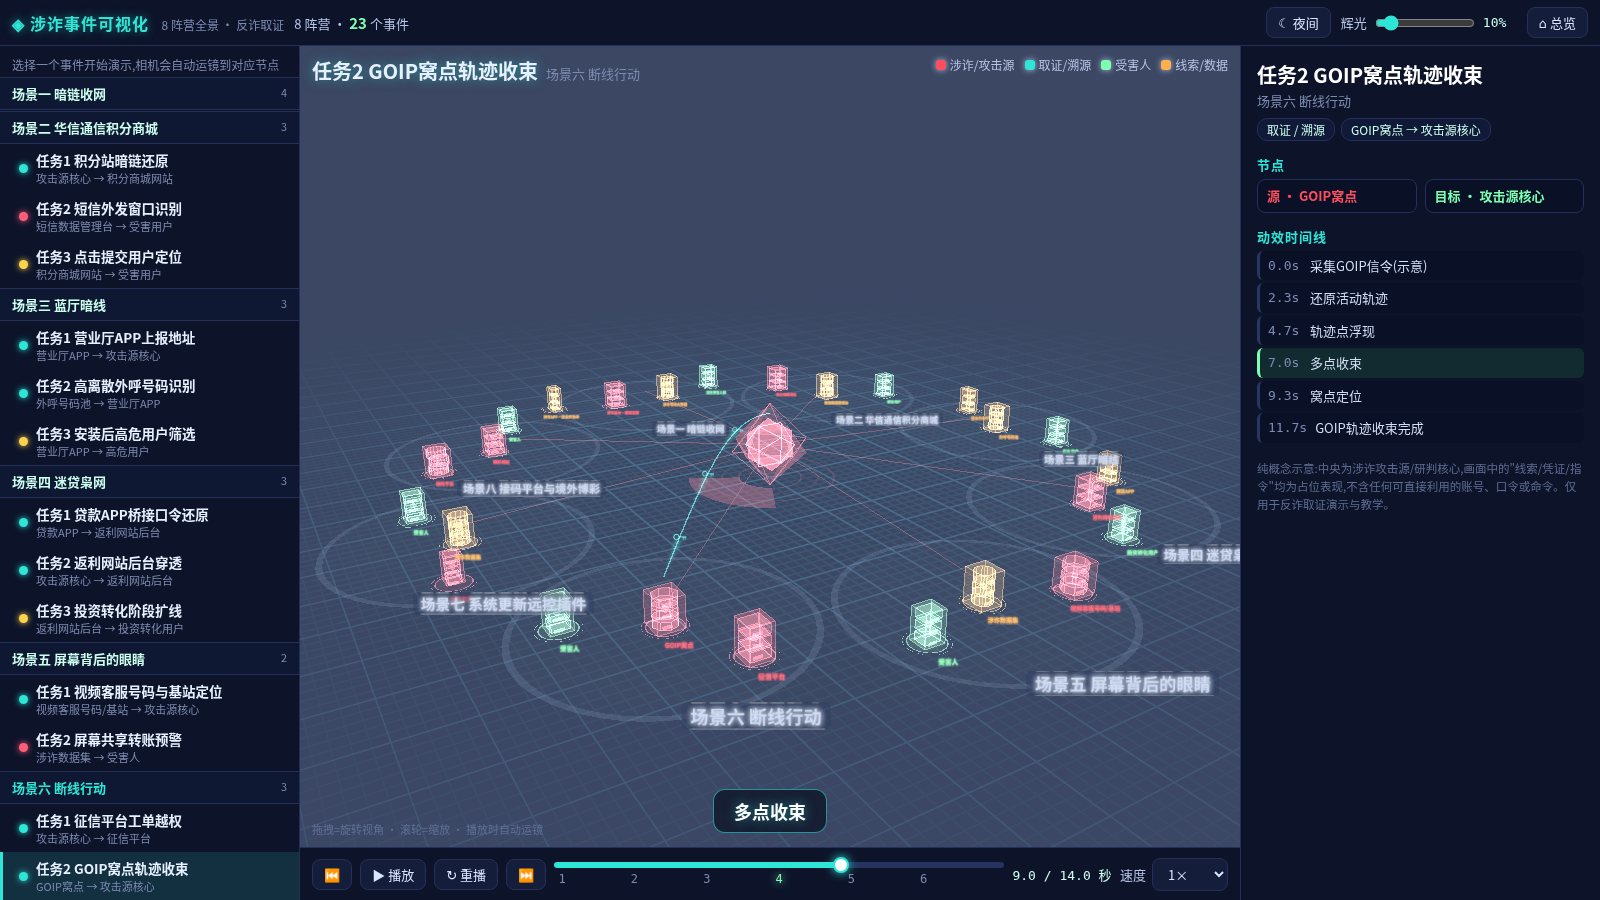
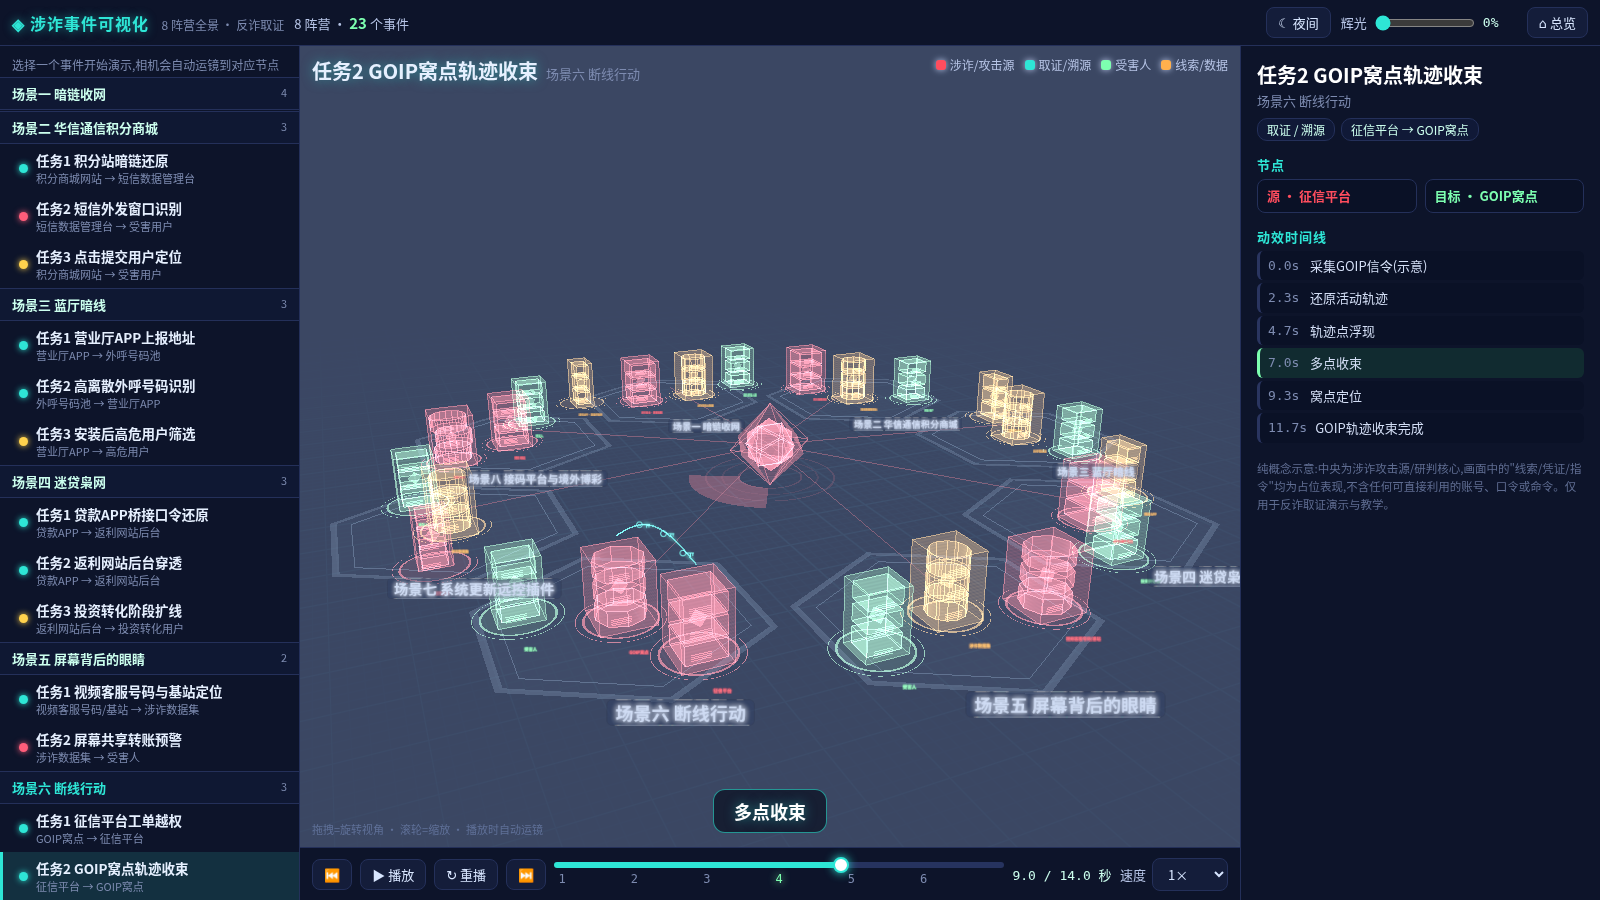
全景重做:节点对齐单场景(放大/发光/双环),事件改为本阵营源→目标直连,去掉所有经core的路由

diff --git a/js/world-data.js b/js/world-data.js
@@ -53,7 +53,7 @@ CAMPS.forEach((camp, ci) => {
     const out = (Math.abs(k - (n - 1) / 2)) * 2.2;          // 两端稍微外扩成弧
     nd.x = p.x + tang.x * off + radial.x * out;
     nd.z = p.z + tang.z * off + radial.z * out;
-    nd.scale = 0.72; nd.camp = camp.id; nd.campName = camp.name;
+    nd.scale = 0.95; nd.camp = camp.id; nd.campName = camp.name;
     NODES.push(nd);
   });
 });
@@ -64,22 +64,22 @@ const EVENTS = [
   // 场景一
   E({ id: 's1t1', camp: 'c1', name: '任务1 提取APP后台凭证', from: 's1_app', to: 's1_back', role: 'extract', dur: 14,
     cap: ['锁定涉诈APP与后台', '静态分析还原后台线索(示意)', '后台地址/账号线索浮现', '沿暗链溯源流向后台', '定位落入涉诈后台', '取证闭环·APP与后台关联'] }),
-  E({ id: 's1t2', camp: 'c1', name: '任务2 进入网站后台并取证', from: 'core', to: 's1_back', role: 'extract', dur: 14,
+  E({ id: 's1t2', camp: 'c1', name: '任务2 进入网站后台并取证', from: 's1_app', to: 's1_back', role: 'extract', dur: 14,
     cap: ['接入涉诈后台边界', '凭线索进入后台(授权取证)', '后台数据结构浮现', '关键运营证据提取', '证据固定与留痕', '后台取证完成'] }),
   E({ id: 's1t3', camp: 'c1', name: '任务3 话单账单交叉定位', from: 's1_data', to: 's1_back', role: 'extract', dur: 14,
     cap: ['调取话单与账单数据', '多源数据对齐', '交叉比对找共性', '可疑号码聚合', '轨迹收敛定位', '交叉定位完成'] }),
   E({ id: 's1t4', camp: 'c1', name: '任务4 潜在受害人闭环圈定', from: 's1_data', to: 's1_vic', role: 'spread', dur: 14,
     cap: ['以后台信息为锚点', '扩线到接触人群', '风险评分筛选', '高风险人群圈定', '闭环比对确认', '潜在受害人圈定完成'] }),
   // 场景二
-  E({ id: 's2t1', camp: 'c2', name: '任务1 积分站暗链还原', from: 'core', to: 's2_site', role: 'extract', dur: 14,
+  E({ id: 's2t1', camp: 'c2', name: '任务1 积分站暗链还原', from: 's2_site', to: 's2_sms', role: 'extract', dur: 14,
     cap: ['锁定积分商城站点', '解析页面隐藏跳转(示意)', '暗链路径还原', '指向后端的链路浮现', '定位真实后端', '暗链还原完成'] }),
   E({ id: 's2t2', camp: 'c2', name: '任务2 短信外发窗口识别', from: 's2_sms', to: 's2_vic', role: 'control', dur: 14,
     cap: ['接入短信数据管理台', '统计外发频次/时段', '异常外发窗口浮现', '锁定高频外发时段', '关联接收用户', '外发窗口识别完成'] }),
   E({ id: 's2t3', camp: 'c2', name: '任务3 点击提交用户定位', from: 's2_site', to: 's2_vic', role: 'spread', dur: 14,
     cap: ['采集提交行为(示意)', '关联用户标识', '定位提交用户', '圈定受影响用户', '风险提示', '用户定位完成'] }),
   // 场景三
-  E({ id: 's3t1', camp: 'c3', name: '任务1 营业厅APP上报地址', from: 's3_app', to: 'core', role: 'extract', dur: 14,
-    cap: ['查获营业厅APP', '还原上报地址(示意)', '上报目标浮现', '指向指挥核心', '定位核心地址', '上报地址取证完成'] }),
+  E({ id: 's3t1', camp: 'c3', name: '任务1 营业厅APP上报地址', from: 's3_app', to: 's3_call', role: 'extract', dur: 14,
+    cap: ['查获营业厅APP', '还原上报地址(示意)', '上报目标浮现', '指向外呼号码池', '定位号码池', '上报地址取证完成'] }),
   E({ id: 's3t2', camp: 'c3', name: '任务2 高离散外呼号码识别', from: 's3_call', to: 's3_app', role: 'extract', dur: 14,
     cap: ['调取外呼号码池', '计算离散度', '高离散号码浮现', '聚类锁定', '关联APP', '高离散号码识别完成'] }),
   E({ id: 's3t3', camp: 'c3', name: '任务3 安装后高危用户筛选', from: 's3_app', to: 's3_vic', role: 'spread', dur: 14,
@@ -87,31 +87,31 @@ const EVENTS = [
   // 场景四
   E({ id: 's4t1', camp: 'c4', name: '任务1 贷款APP桥接口令还原', from: 's4_loan', to: 's4_back', role: 'extract', dur: 14,
     cap: ['查获贷款APP', '还原桥接口令(示意)', '桥接通道浮现', '连接返利后台', '定位后台', '桥接口令还原完成'] }),
-  E({ id: 's4t2', camp: 'c4', name: '任务2 返利网站后台穿透', from: 'core', to: 's4_back', role: 'extract', dur: 14,
+  E({ id: 's4t2', camp: 'c4', name: '任务2 返利网站后台穿透', from: 's4_loan', to: 's4_back', role: 'extract', dur: 14,
     cap: ['接入返利网站边界', '穿透到后台(授权取证)', '后台结构浮现', '运营数据提取', '证据固定', '后台穿透取证完成'] }),
   E({ id: 's4t3', camp: 'c4', name: '任务3 投资转化阶段扩线', from: 's4_back', to: 's4_vic', role: 'spread', dur: 14,
     cap: ['以后台数据为锚点', '还原投资转化链路', '转化阶段用户浮现', '扩线关联', '圈定受害用户', '投资转化扩线完成'] }),
   // 场景五
-  E({ id: 's5t1', camp: 'c5', name: '任务1 视频客服号码与基站定位', from: 's5_video', to: 'core', role: 'extract', dur: 14,
+  E({ id: 's5t1', camp: 'c5', name: '任务1 视频客服号码与基站定位', from: 's5_video', to: 's5_data', role: 'extract', dur: 14,
     cap: ['采集视频客服号码', '关联基站数据', '基站位置浮现', '多基站交汇', '位置收敛', '号码与基站定位完成'] }),
   E({ id: 's5t2', camp: 'c5', name: '任务2 屏幕共享转账预警', from: 's5_data', to: 's5_vic', role: 'control', dur: 14,
     cap: ['监测屏幕共享行为(示意)', '识别转账前兆', '高危会话浮现', '锁定受害人', '实时预警', '转账预警触发'] }),
   // 场景六
-  E({ id: 's6t1', camp: 'c6', name: '任务1 征信平台工单越权', from: 'core', to: 's6_credit', role: 'extract', dur: 14,
+  E({ id: 's6t1', camp: 'c6', name: '任务1 征信平台工单越权', from: 's6_goip', to: 's6_credit', role: 'extract', dur: 14,
     cap: ['接入征信平台边界', '发现工单越权(示意)', '越权访问路径浮现', '取证固定', '留痕归档', '工单越权取证完成'] }),
-  E({ id: 's6t2', camp: 'c6', name: '任务2 GOIP窝点轨迹收束', from: 's6_goip', to: 'core', role: 'extract', dur: 14,
+  E({ id: 's6t2', camp: 'c6', name: '任务2 GOIP窝点轨迹收束', from: 's6_credit', to: 's6_goip', role: 'extract', dur: 14,
     cap: ['采集GOIP信令(示意)', '还原活动轨迹', '轨迹点浮现', '多点收束', '窝点定位', 'GOIP轨迹收束完成'] }),
   E({ id: 's6t3', camp: 'c6', name: '任务3 征信修复潜在受害人扩线', from: 's6_credit', to: 's6_vic', role: 'spread', dur: 14,
     cap: ['以平台信息为锚点', '还原征信修复话术链路', '接触人群浮现', '风险扩线', '圈定受害人', '潜在受害人扩线完成'] }),
   // 场景七
-  E({ id: 's7t1', camp: 'c7', name: '任务1 远控插件协议逆向', from: 's7_rat', to: 'core', role: 'extract', dur: 14,
-    cap: ['提取远控插件样本', '逆向通信协议(示意)', '控制指令结构浮现', '指向指挥核心', '定位控制端', '协议逆向完成'] }),
+  E({ id: 's7t1', camp: 'c7', name: '任务1 远控插件协议逆向', from: 's7_rat', to: 's7_data', role: 'extract', dur: 14,
+    cap: ['提取远控插件样本', '逆向通信协议(示意)', '控制指令结构浮现', '指向涉诈数据集', '定位控制端', '协议逆向完成'] }),
   E({ id: 's7t2', camp: 'c7', name: '任务2 转账前远控受害人拦截', from: 's7_rat', to: 's7_vic', role: 'control', dur: 14,
     cap: ['监测远控会话(示意)', '识别转账前兆', '高危受害人浮现', '锁定会话', '实时拦截预警', '转账拦截触发'] }),
   // 场景八
-  E({ id: 's8t1', camp: 'c8', name: '任务1 接码平台取证', from: 'core', to: 's8_code', role: 'extract', dur: 14,
+  E({ id: 's8t1', camp: 'c8', name: '任务1 接码平台取证', from: 's8_bet', to: 's8_code', role: 'extract', dur: 14,
     cap: ['锁定接码平台', '接入边界(授权取证)', '接码记录浮现', '组织关系提取', '证据固定', '接码平台取证完成'] }),
-  E({ id: 's8t2', camp: 'c8', name: '任务2 博彩网站取证', from: 'core', to: 's8_bet', role: 'extract', dur: 14,
+  E({ id: 's8t2', camp: 'c8', name: '任务2 博彩网站取证', from: 's8_code', to: 's8_bet', role: 'extract', dur: 14,
     cap: ['锁定博彩网站', '接入边界(授权取证)', '站点结构浮现', '资金/账号线索提取', '证据固定', '博彩网站取证完成'] }),
   E({ id: 's8t3', camp: 'c8', name: '任务3 潜在受害人扩线', from: 's8_bet', to: 's8_vic', role: 'spread', dur: 14,
     cap: ['以站点数据为锚点', '扩线接触人群', '投注用户浮现', '风险圈定', '闭环确认', '潜在受害人扩线完成'] }),
